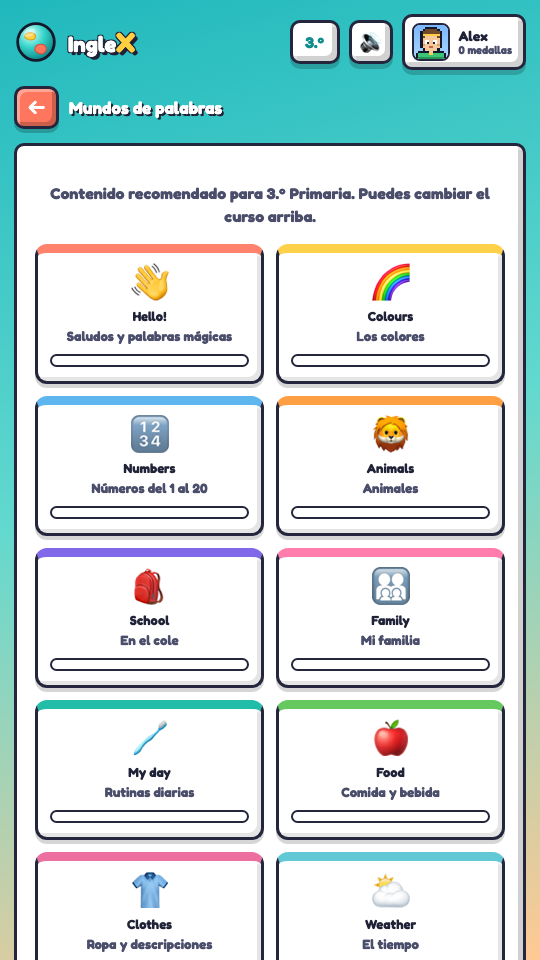
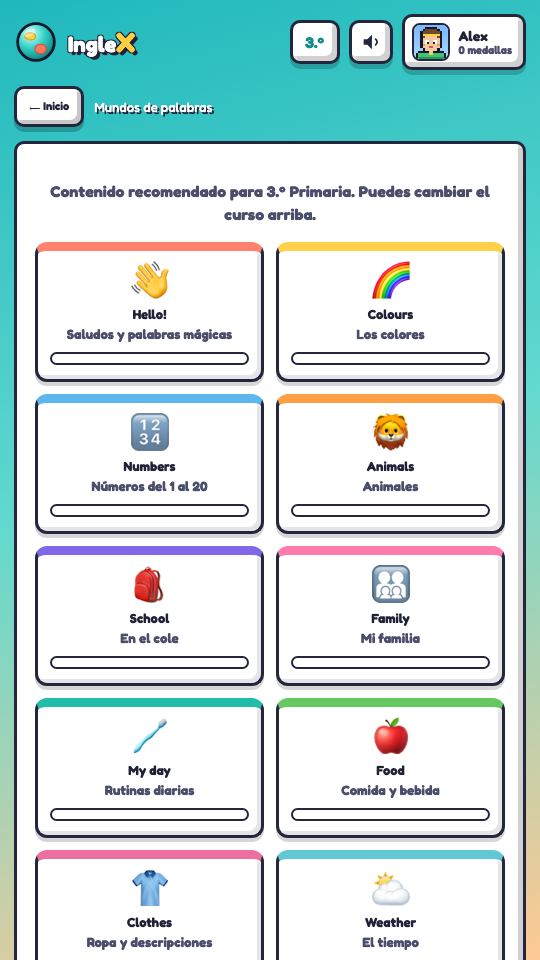
Match Orbitakidx arcade interactions and sound

Changed region(s): [[0.0593, 0.1875, 0.9481, 1.0], [0.0296, 0.0625, 0.9778, 0.1562], [0.6519, 0.0312, 0.7111, 0.0625]]

diff --git a/index.html b/index.html
@@ -48,36 +48,43 @@ function merge(d){var x=defaults();function deep(a,b){Object.keys(a).forEach(fun
 function load(){try{var r=localStorage.getItem(STORE_KEY);if(r)return merge(JSON.parse(r))}catch(e){}return memFallback||defaults()}function save(){try{localStorage.setItem(STORE_KEY,JSON.stringify(DATA))}catch(e){memFallback=DATA}}
 var DATA=load(),QUIZ=null,STUDY=null,SENT=null,READ=null;
 function $(id){return document.getElementById(id)}function shuffle(a){a=a.slice();for(var i=a.length-1;i>0;i--){var j=Math.floor(Math.random()*(i+1)),t=a[i];a[i]=a[j];a[j]=t}return a}function esc(s){return String(s).replace(/[&<>"']/g,function(c){return{"&":"&amp;","<":"&lt;",">":"&gt;",'"':"&quot;","'":"&#39;"}[c]})}
-function course(){return CONTENT.courses[DATA.grade-1]}function courseThemes(){return CONTENT.themes.filter(function(t){return t.grade<=DATA.grade})}function enterApp(){$("splash").style.display="none";if(!DATA.onboarded)editProfile(true)}
-function updateTop(){$("chipAv").innerHTML=avatarSVG(DATA.avatar);$("chipName").textContent=DATA.name||"Explorador";$("chipMedals").textContent=achievementCount();$("courseChip").textContent=course().short;$("soundBtn").textContent=DATA.sound?"🔊":"🔇"}function toggleSound(){DATA.sound=!DATA.sound;save();updateTop()}
-function speak(text){if(!DATA.sound)return;var p=window.Capacitor&&Capacitor.Plugins&&Capacitor.Plugins.OrbitakidxSpeech;if(p&&p.speak){p.speak({text:text,language:"en-US"});return}if(window.speechSynthesis){speechSynthesis.cancel();var u=new SpeechSynthesisUtterance(text);u.lang="en-US";u.rate=.82;speechSynthesis.speak(u)}}
+function course(){return CONTENT.courses[DATA.grade-1]}function courseThemes(){return CONTENT.themes.filter(function(t){return t.grade<=DATA.grade})}function enterApp(){$("splash").style.display="none";sfx("start");if(!DATA.onboarded)editProfile(true)}
+function updateTop(){$("chipAv").innerHTML=avatarSVG(DATA.avatar);$("chipName").textContent=DATA.name||"Explorador";$("chipMedals").textContent=achievementCount();$("courseChip").textContent=course().short;updateSoundBtn()}
+var SND={ctx:null};
+function soundOn(){return DATA.sound!==false}
+function updateSoundBtn(){var b=$("soundBtn"),on=soundOn();if(!b)return;b.innerHTML=on?'<svg width="22" height="22" viewBox="0 0 24 24" fill="#23263d"><path d="M4 9v6h4l5 5V4L8 9H4z"/><path d="M16.5 8.5a4 4 0 010 7" fill="none" stroke="#23263d" stroke-width="2"/></svg>':'<svg width="22" height="22" viewBox="0 0 24 24"><path d="M4 9v6h4l5 5V4L8 9H4z" fill="#aab0c4"/><line x1="16" y1="9.5" x2="22" y2="14.5" stroke="#aab0c4" stroke-width="2"/><line x1="22" y1="9.5" x2="16" y2="14.5" stroke="#aab0c4" stroke-width="2"/></svg>'}
+function toggleSound(){DATA.sound=!soundOn();save();updateSoundBtn();if(soundOn())sfx("tap")}
+function sfx(type){if(!soundOn())return;try{var AC=window.AudioContext||window.webkitAudioContext;if(!AC)return;if(!SND.ctx)SND.ctx=new AC();var ctx=SND.ctx;if(ctx.state==="suspended")ctx.resume();var seq,wave="triangle";if(type==="ok")seq=[[660,0,.09],[990,.07,.12]];else if(type==="bad"){seq=[[180,0,.22]];wave="square"}else if(type==="tap")seq=[[540,0,.05]];else if(type==="medal")seq=[[523,0,.1],[659,.1,.1],[784,.2,.16]];else if(type==="win")seq=[[523,0,.1],[659,.1,.1],[784,.2,.1],[1047,.32,.2]];else if(type==="start")seq=[[392,0,.09],[523,.09,.09],[784,.18,.18]];else seq=[[600,0,.08]];for(var i=0;i<seq.length;i++){var n=seq[i],o=ctx.createOscillator(),g=ctx.createGain();o.type=wave;o.frequency.value=n[0];o.connect(g);g.connect(ctx.destination);var t0=ctx.currentTime+n[1];g.gain.setValueAtTime(.0001,t0);g.gain.exponentialRampToValueAtTime(.22,t0+.012);g.gain.exponentialRampToValueAtTime(.0001,t0+n[2]);o.start(t0);o.stop(t0+n[2]+.03)}}catch(e){}}
+function webSpeak(text){if(!window.speechSynthesis)return;speechSynthesis.cancel();var u=new SpeechSynthesisUtterance(text);u.lang="en-GB";u.rate=.82;speechSynthesis.speak(u)}
+function speak(text){if(!soundOn())return;var p=window.Capacitor&&Capacitor.Plugins&&Capacitor.Plugins.OrbitakidxSpeech;if(p&&p.speak){var call=p.speak({text:text,language:"en-GB"});if(call&&call.catch)call.catch(function(){webSpeak(text)});return}webSpeak(text)}
 function showModal(inner,noClose){$("modalHost").innerHTML='<div class="modal-bg"'+(noClose?'':' onclick="if(event.target===this)closeModal()"')+'><div class="modal block">'+inner+'</div></div>'}function closeModal(){$("modalHost").innerHTML=""}function toast(msg){$("toastHost").innerHTML='<div class="toast">'+msg+'</div>';setTimeout(function(){$("toastHost").innerHTML=""},2200)}
 function editProfile(first){var av="";AVATARS.slice(0,12).forEach(function(a,i){av+='<button class="avatar '+(i===DATA.avatar?'sel':'')+'" onclick="pickAvatar('+i+')" aria-label="'+a.name+'">'+avatarSVG(i)+'</button>'});showModal('<h2>'+(first?'¡Bienvenido a IngleX!':'Tu perfil')+'</h2><p class="sub">Elige tu personaje y escribe tu nombre.</p><input class="name-input" id="nameInput" maxlength="14" placeholder="Tu nombre" value="'+esc(DATA.name)+'"><div class="avatar-row">'+av+'</div><button class="btn coral full" onclick="saveProfile('+(first?'true':'false')+')">Continuar</button>',!!first)}
-function pickAvatar(i){DATA.avatar=i;document.querySelectorAll(".avatar").forEach(function(b,n){b.classList.toggle("sel",n===i)})}function saveProfile(first){var v=$("nameInput").value.trim();if(!v){$("nameInput").focus();return}DATA.name=v;save();closeModal();if(first)chooseCourse(true);else{updateTop();renderHome()}}
+function pickAvatar(i){DATA.avatar=i;sfx("tap");document.querySelectorAll(".avatar").forEach(function(b,n){b.classList.toggle("sel",n===i)})}function saveProfile(first){var v=$("nameInput").value.trim();if(!v){$("nameInput").focus();return}DATA.name=v;save();closeModal();if(first)chooseCourse(true);else{updateTop();renderHome();sfx("win")}}
 function chooseCourse(first){var h='<h2>¿En qué curso estás?</h2><p class="sub">Así adaptamos las palabras, frases y lecturas.</p><div class="course-grid">';CONTENT.courses.forEach(function(c){h+='<div class="theme '+(DATA.grade===c.grade?'selected':'')+'" style="--world:'+["#37c871","#22c6c6","#ff9f43","#7b5cff"][c.grade-1]+'" onclick="setCourse('+c.grade+','+(first?'true':'false')+')"><div class="big">'+["🌱","🌿","🚲","🚀"][c.grade-1]+'</div><b>'+c.label+'</b><small>'+c.description+'</small></div>'});h+='</div>';showModal(h,!!first)}
-function setCourse(g,first){DATA.grade=g;DATA.onboarded=true;save();closeModal();updateTop();renderHome();if(first)toast("¡Curso guardado!")}
-function backBar(title){return'<div class="backbar"><button class="back" onclick="goHome()">←</button><h2>'+title+'</h2></div>'}function lockClass(open){return open?'':' locked'}function themeOpen(i){return OrbitakidxAccess.hasFullAccess()||i<2}function requireTheme(i){if(themeOpen(i))return true;OrbitakidxAccess.showPaywall();return false}
-function card(e,t,d,a,c,locked){return'<button class="card block'+(locked?' locked':'')+'" onclick="'+a+'"><span class="top" style="background:'+c+'"></span><div class="body"><div class="ic">'+e+'</div><h3>'+t+'</h3><p>'+d+'</p></div></button>'}
-function renderHome(){var s=DATA.stats;$("screen").innerHTML='<section class="hero block"><div class="big-av">'+avatarSVG(DATA.avatar)+'</div><div class="htxt"><h2>Hi, '+esc(DATA.name||"explorador")+'! 👋</h2><p>'+course().label+' · '+(DATA.grade>=3?'Frases, escucha y comprensión':'Aprende jugando paso a paso')+'</p><div class="stat-row"><span class="stat">✅ '+s.correct+' aciertos</span><span class="stat">🔥 '+s.best+' racha</span><span class="stat">🏅 '+achievementCount()+'/12</span></div></div></section><div class="section-title">ELIGE TU MISIÓN</div><section class="grid">'+card("🗺","Mundos","Aprende palabras por temas","showThemes('study')","var(--teal)",false)+card("🎧","Escucha","Oye la palabra y elige","showThemes('listen')","#4cb4e8",false)+card("🧩","Frases","Ordena las palabras","startSentences()","var(--coral)",false)+(DATA.grade>=3?card("📖","Reading","Comprende pequeños textos","startReading()","#8c70e8",!OrbitakidxAccess.hasFullAccess()):"")+card("🏆","Examen","Mezcla las misiones","startExam()","var(--gold)",!OrbitakidxAccess.hasFullAccess())+card("🏅","Medallas","Completa la colección","showMedals()","var(--purple)",false)+card("🚀","Progreso","Tu pasaporte de inglés","showProgress()","var(--green)",false)+'</section>'}
+function setCourse(g,first){DATA.grade=g;DATA.onboarded=true;save();closeModal();updateTop();renderHome();sfx("win");if(first)toast("¡Curso guardado!")}
+function backBar(title){return'<div class="back-bar"><div class="btn ghost sm" onclick="goHome()">⟵ Inicio</div><div class="qmeta" style="font-size:13px">'+esc(title)+'</div></div>'}function lockClass(open){return open?'':' locked'}function themeOpen(i){return OrbitakidxAccess.hasFullAccess()||i<2}function requireTheme(i){if(themeOpen(i))return true;OrbitakidxAccess.showPaywall();return false}
+function iconPath(n){switch(n){case"globe":return'<circle cx="12" cy="12" r="9" fill="none" stroke="currentColor" stroke-width="2.4"/><path d="M3 12h18M12 3c3 3 4 6 4 9s-1 6-4 9c-3-3-4-6-4-9s1-6 4-9z" fill="none" stroke="currentColor" stroke-width="2"/>';case"sound":return'<path d="M3 9v6h4l5 5V4L7 9H3z"/><path d="M16 8a5 5 0 010 8" fill="none" stroke="currentColor" stroke-width="2.4"/>';case"abc":return'<path d="M3 18l3-10 3 10M3.8 15h4.4" fill="none" stroke="currentColor" stroke-width="2.4"/><circle cx="16" cy="14" r="4" fill="none" stroke="currentColor" stroke-width="2.4"/>';case"book":return'<path d="M4 4h7v16H4z"/><path d="M13 4h7v16h-7z"/>';case"target":return'<circle cx="12" cy="12" r="9" fill="none" stroke="currentColor" stroke-width="3"/><circle cx="12" cy="12" r="4" fill="none" stroke="currentColor" stroke-width="3"/><circle cx="12" cy="12" r="1.5"/>';case"star":return'<polygon points="12,2 15,9 22,9 16,14 18,21 12,17 6,21 8,14 2,9 9,9"/>';case"trophy":return'<path d="M6 3h12v4a6 6 0 01-12 0V3z"/><rect x="10" y="12" width="4" height="5"/><rect x="7" y="17" width="10" height="3"/>';default:return'<circle cx="12" cy="12" r="9"/>'}}
+function card(icon,t,d,a,c,locked){return'<button class="card block'+(locked?' locked':'')+'" onclick="'+a+'"><span class="top" style="background:'+c+'"></span><div class="body"><div class="ic"><svg viewBox="0 0 24 24" style="width:100%;height:100%" fill="'+c+'" color="'+c+'">'+iconPath(icon)+'</svg></div><h3>'+t+'</h3><p>'+d+'</p></div></button>'}
+function renderHome(){var s=DATA.stats;$("screen").innerHTML='<section class="hero block"><div class="big-av">'+avatarSVG(DATA.avatar)+'</div><div class="htxt"><h2>Hi, '+esc(DATA.name||"explorador")+'! 👋</h2><p>'+course().label+' · '+(DATA.grade>=3?'Frases, escucha y comprensión':'Aprende jugando paso a paso')+'</p><div class="stat-row"><span class="stat">✅ '+s.correct+' aciertos</span><span class="stat">🔥 '+s.best+' racha</span><span class="stat">🏅 '+achievementCount()+'/12</span></div></div></section><div class="section-title">ELIGE TU MISIÓN</div><section class="grid">'+card("globe","Mundos","Aprende palabras por temas","showThemes('study')","var(--teal)",false)+card("sound","Escucha","Oye la palabra y elige","showThemes('listen')","#4cb4e8",false)+card("abc","Frases","Ordena las palabras","startSentences()","var(--coral)",false)+(DATA.grade>=3?card("book","Reading","Comprende pequeños textos","startReading()","#8c70e8",!OrbitakidxAccess.hasFullAccess()):"")+card("target","Examen","Mezcla las misiones","startExam()","var(--gold)",!OrbitakidxAccess.hasFullAccess())+card("star","Medallas","Completa la colección","showMedals()","var(--purple)",false)+card("trophy","Progreso","Tu pasaporte de inglés","showProgress()","var(--green)",false)+'</section>'}
 function goHome(){QUIZ=STUDY=SENT=READ=null;renderHome();window.scrollTo(0,0)}
-function showThemes(mode){var themes=courseThemes(),h=backBar(mode==="listen"?"Escucha y elige":"Mundos de palabras")+'<div class="panel block"><p class="sub">Contenido recomendado para '+course().label+'. Puedes cambiar el curso arriba.</p><div class="theme-grid">';themes.forEach(function(t,i){var c=(DATA.themes[t.id]&&DATA.themes[t.id].correct)||0;h+='<div class="theme'+lockClass(themeOpen(i))+'" style="--world:'+t.color+'" onclick="'+(mode==="listen"?'startWordQuiz('+i+',\'listen\')':'openStudy('+i+')')+'"><div class="big">'+t.emoji+'</div><b>'+t.name+'</b><small>'+t.description+'</small><div class="progress"><i style="width:'+Math.min(100,c*10)+'%;background:'+t.color+'"></i></div></div>'});h+='</div></div>';$("screen").innerHTML=h}
-function openStudy(i){if(!requireTheme(i))return;STUDY={themes:courseThemes(),theme:i,index:0};renderStudy()}function renderStudy(){var t=STUDY.themes[STUDY.theme],w=t.words[STUDY.index];$("screen").innerHTML=backBar(t.name)+'<div class="study block"><div class="eyebrow">PALABRA '+(STUDY.index+1)+' DE '+t.words.length+'</div><div class="word-emoji">'+w.emoji+'</div><div class="english">'+w.en+'</div><div class="spanish">'+w.es+'</div><button class="speaker" onclick="speak(\''+w.en.replace(/'/g,"\\'")+'\')">🔊</button><div class="actions"><button class="btn ghost" onclick="studyMove(-1)">←</button><button class="btn green" onclick="studyMove(1)">Siguiente →</button></div></div><div class="actions"><button class="btn coral" onclick="startWordQuiz('+STUDY.theme+',\'meaning\')">Practicar</button></div>';setTimeout(function(){speak(w.en)},180)}function studyMove(d){var t=STUDY.themes[STUDY.theme];STUDY.index=(STUDY.index+d+t.words.length)%t.words.length;renderStudy()}
+function showThemes(mode){sfx("tap");var themes=courseThemes(),h=backBar(mode==="listen"?"Escucha y elige":"Mundos de palabras")+'<div class="panel block"><p class="sub">Contenido recomendado para '+course().label+'. Puedes cambiar el curso arriba.</p><div class="theme-grid">';themes.forEach(function(t,i){var c=(DATA.themes[t.id]&&DATA.themes[t.id].correct)||0;h+='<div class="theme'+lockClass(themeOpen(i))+'" style="--world:'+t.color+'" onclick="'+(mode==="listen"?'startWordQuiz('+i+',\'listen\')':'openStudy('+i+')')+'"><div class="big">'+t.emoji+'</div><b>'+t.name+'</b><small>'+t.description+'</small><div class="progress"><i style="width:'+Math.min(100,c*10)+'%;background:'+t.color+'"></i></div></div>'});h+='</div></div>';$("screen").innerHTML=h}
+function openStudy(i){if(!requireTheme(i))return;sfx("start");STUDY={themes:courseThemes(),theme:i,index:0};renderStudy()}function renderStudy(){var t=STUDY.themes[STUDY.theme],w=t.words[STUDY.index];$("screen").innerHTML=backBar(t.name)+'<div class="study block"><div class="eyebrow">PALABRA '+(STUDY.index+1)+' DE '+t.words.length+'</div><div class="word-emoji">'+w.emoji+'</div><div class="english">'+w.en+'</div><div class="spanish">'+w.es+'</div><button class="speaker" onclick="speak(\''+w.en.replace(/'/g,"\\'")+'\')">🔊</button><div class="actions"><button class="btn ghost" onclick="studyMove(-1)">←</button><button class="btn green" onclick="studyMove(1)">Siguiente →</button></div></div><div class="actions"><button class="btn coral" onclick="startWordQuiz('+STUDY.theme+',\'meaning\')">Practicar</button></div>';setTimeout(function(){speak(w.en)},180)}function studyMove(d){sfx("tap");var t=STUDY.themes[STUDY.theme];STUDY.index=(STUDY.index+d+t.words.length)%t.words.length;renderStudy()}
 function allWords(){var a=[];courseThemes().forEach(function(t,ti){t.words.forEach(function(w){a.push({en:w.en,es:w.es,emoji:w.emoji,theme:ti,id:t.id})})});return a}function choicesFor(w,key,pool){var a=[w[key]],o=shuffle(pool.filter(function(x){return x[key]!==w[key]}));for(var i=0;i<o.length&&a.length<4;i++)a.push(o[i][key]);return shuffle(a)}
-function startWordQuiz(i,type){if(!requireTheme(i))return;var themes=courseThemes(),t=themes[i],items=shuffle(t.words).slice(0,10).map(function(w){return{kind:type,word:w,choices:choicesFor(w,type==="listen"?"en":"es",t.words),theme:i,id:t.id}});startQuiz(items,t.name+(type==="listen"?" · Escucha":" · Palabras"),false)}function startQuiz(items,label,exam){QUIZ={items:items,index:0,correct:0,streak:0,answered:false,label:label,exam:!!exam};renderQuiz()}
+function startWordQuiz(i,type){if(!requireTheme(i))return;var themes=courseThemes(),t=themes[i],items=shuffle(t.words).slice(0,10).map(function(w){return{kind:type,word:w,choices:choicesFor(w,type==="listen"?"en":"es",t.words),theme:i,id:t.id}});startQuiz(items,t.name+(type==="listen"?" · Escucha":" · Palabras"),false)}function startQuiz(items,label,exam){sfx("start");QUIZ={items:items,index:0,correct:0,streak:0,answered:false,label:label,exam:!!exam};renderQuiz()}
 function startExam(){if(!OrbitakidxAccess.requireLevel("dificil",true))return;var pool=allWords(),items=shuffle(pool).slice(0,12).map(function(w,n){var type=n%2?"listen":"meaning";return{kind:type,word:w,choices:choicesFor(w,type==="listen"?"en":"es",pool),theme:w.theme,id:w.id}});startQuiz(items,"Examen galáctico",true)}
 function renderQuiz(){var q=QUIZ.items[QUIZ.index],listen=q.kind==="listen",prompt=listen?'¿Qué palabra escuchas?':'¿Qué significa <b>'+q.word.en+'</b>?',answers="";q.choices.forEach(function(c,i){answers+='<button class="answer" id="ans'+i+'" onclick="answerQuiz('+i+')">'+c+'</button>'});$("screen").innerHTML=backBar(QUIZ.label)+'<div class="quiz-head"><b>Pregunta '+(QUIZ.index+1)+'/'+QUIZ.items.length+'</b><b>🔥 '+QUIZ.streak+'</b></div><div class="progress"><i style="width:'+(QUIZ.index/QUIZ.items.length*100)+'%"></i></div><div class="question block" style="margin-top:12px"><div class="qemoji">'+(listen?'🎧':q.word.emoji)+'</div><h2>'+prompt+'</h2>'+(listen?'<button class="speaker" onclick="speak(\''+q.word.en.replace(/'/g,"\\'")+'\')">🔊</button>':'<p class="sub">Elige la respuesta correcta</p>')+'<div class="answers">'+answers+'</div><div id="feedback"></div></div>';if(listen)setTimeout(function(){speak(q.word.en)},250)}
-function answerQuiz(i){if(QUIZ.answered)return;QUIZ.answered=true;var q=QUIZ.items[QUIZ.index],right=q.kind==="listen"?q.word.en:q.word.es,ok=q.choices[i]===right;document.querySelectorAll(".answer").forEach(function(b,n){if(q.choices[n]===right)b.classList.add("ok");else if(n===i)b.classList.add("no")});DATA.stats.answered++;if(ok){QUIZ.correct++;QUIZ.streak++;DATA.stats.correct++;DATA.stats.streak++;DATA.stats.best=Math.max(DATA.stats.best,DATA.stats.streak);if(q.kind==="listen")DATA.stats.listen++;var ts=DATA.themes[q.id]||(DATA.themes[q.id]={correct:0});ts.correct++}else{QUIZ.streak=0;DATA.stats.streak=0}save();$("feedback").innerHTML='<div class="feedback">'+(ok?'✅ Great!':'💡 Era <b>'+right+'</b>')+'<div class="actions"><button class="btn green" onclick="nextQuiz()">Continuar →</button></div></div>'}
+function answerQuiz(i){if(QUIZ.answered)return;QUIZ.answered=true;var q=QUIZ.items[QUIZ.index],right=q.kind==="listen"?q.word.en:q.word.es,ok=q.choices[i]===right;document.querySelectorAll(".answer").forEach(function(b,n){if(q.choices[n]===right)b.classList.add("ok");else if(n===i)b.classList.add("no")});DATA.stats.answered++;if(ok){QUIZ.correct++;QUIZ.streak++;DATA.stats.correct++;DATA.stats.streak++;DATA.stats.best=Math.max(DATA.stats.best,DATA.stats.streak);if(q.kind==="listen")DATA.stats.listen++;var ts=DATA.themes[q.id]||(DATA.themes[q.id]={correct:0});ts.correct++}else{QUIZ.streak=0;DATA.stats.streak=0}sfx(ok?"ok":"bad");save();$("feedback").innerHTML='<div class="feedback">'+(ok?'✅ Great!':'💡 Era <b>'+right+'</b>')+'<div class="actions"><button class="btn green" onclick="nextQuiz()">Continuar →</button></div></div>'}
 function nextQuiz(){QUIZ.index++;QUIZ.answered=false;if(QUIZ.index>=QUIZ.items.length)return finishActivity(QUIZ.correct,QUIZ.items.length,"Palabras completadas");renderQuiz()}
-function startSentences(){var free=DATA.grade<=2;if(!free&&!OrbitakidxAccess.requireLevel("medio",false))return;SENT={items:shuffle(CONTENT.sentences[DATA.grade]).slice(0,6),index:0,correct:0,selected:[],answered:false};renderSentence()}
+function startSentences(){var free=DATA.grade<=2;if(!free&&!OrbitakidxAccess.requireLevel("medio",false))return;sfx("start");SENT={items:shuffle(CONTENT.sentences[DATA.grade]).slice(0,6),index:0,correct:0,selected:[],answered:false};renderSentence()}
 function renderSentence(){var q=SENT.items[SENT.index],pool=shuffle(q[0].split(" "));SENT.pool=pool;SENT.selected=[];SENT.answered=false;var tok="";pool.forEach(function(w,i){tok+='<button class="token" id="tok'+i+'" onclick="pickToken('+i+')">'+w+'</button>'});$("screen").innerHTML=backBar("Construye la frase")+'<div class="quiz-head"><b>Frase '+(SENT.index+1)+'/'+SENT.items.length+'</b><b>⭐ '+SENT.correct+'</b></div><div class="question block"><div class="qemoji">🧩</div><h2>'+q[1]+'</h2><div class="sentence-box" id="built"><span class="sub">Toca las palabras…</span></div><div class="tokens">'+tok+'</div><div class="actions"><button class="btn ghost" onclick="undoToken()">↩ Deshacer</button><button class="btn green" onclick="checkSentence()">Comprobar</button></div><div id="feedback"></div></div>'}
-function pickToken(i){if(SENT.answered||SENT.selected.indexOf(i)>=0)return;SENT.selected.push(i);$("tok"+i).classList.add("used");renderBuilt()}function undoToken(){if(!SENT.selected.length||SENT.answered)return;var i=SENT.selected.pop();$("tok"+i).classList.remove("used");renderBuilt()}function renderBuilt(){$("built").innerHTML=SENT.selected.length?SENT.selected.map(function(i){return'<span class="token">'+SENT.pool[i]+'</span>'}).join(""):'<span class="sub">Toca las palabras…</span>'}
-function checkSentence(){if(SENT.answered)return;var q=SENT.items[SENT.index],built=SENT.selected.map(function(i){return SENT.pool[i]}).join(" ");if(SENT.selected.length!==SENT.pool.length)return toast("Todavía faltan palabras");SENT.answered=true;var ok=built===q[0];DATA.stats.answered++;if(ok){SENT.correct++;DATA.stats.correct++;DATA.stats.sentences++;speak(q[0])}save();$("feedback").innerHTML='<div class="feedback">'+(ok?'✅ Perfect!':'💡 Orden correcto: <b>'+q[0]+'</b>')+'<div class="actions"><button class="btn green" onclick="nextSentence()">Continuar →</button></div></div>'}
+function pickToken(i){if(SENT.answered||SENT.selected.indexOf(i)>=0)return;sfx("tap");SENT.selected.push(i);$("tok"+i).classList.add("used");renderBuilt()}function undoToken(){if(!SENT.selected.length||SENT.answered)return;sfx("tap");var i=SENT.selected.pop();$("tok"+i).classList.remove("used");renderBuilt()}function renderBuilt(){$("built").innerHTML=SENT.selected.length?SENT.selected.map(function(i){return'<span class="token">'+SENT.pool[i]+'</span>'}).join(""):'<span class="sub">Toca las palabras…</span>'}
+function checkSentence(){if(SENT.answered)return;var q=SENT.items[SENT.index],built=SENT.selected.map(function(i){return SENT.pool[i]}).join(" ");if(SENT.selected.length!==SENT.pool.length)return toast("Todavía faltan palabras");SENT.answered=true;var ok=built===q[0];DATA.stats.answered++;if(ok){SENT.correct++;DATA.stats.correct++;DATA.stats.sentences++;speak(q[0])}sfx(ok?"ok":"bad");save();$("feedback").innerHTML='<div class="feedback">'+(ok?'✅ Perfect!':'💡 Orden correcto: <b>'+q[0]+'</b>')+'<div class="actions"><button class="btn green" onclick="nextSentence()">Continuar →</button></div></div>'}
 function nextSentence(){SENT.index++;if(SENT.index>=SENT.items.length)return finishActivity(SENT.correct,SENT.items.length,"Frases construidas");renderSentence()}
-function startReading(){if(!OrbitakidxAccess.requireLevel("dificil",false))return;var bank=CONTENT.readings[DATA.grade]||CONTENT.readings[3];READ={story:shuffle(bank)[0],index:0,correct:0,answered:false};renderReading()}
+function startReading(){if(!OrbitakidxAccess.requireLevel("dificil",false))return;sfx("start");var bank=CONTENT.readings[DATA.grade]||CONTENT.readings[3];READ={story:shuffle(bank)[0],index:0,correct:0,answered:false};renderReading()}
 function renderReading(){var q=READ.story.questions[READ.index],answers="";shuffle(q[2]).forEach(function(a){answers+='<button class="answer" onclick="answerReading(this,\''+a.replace(/'/g,"\\'")+'\')">'+a+'</button>'});$("screen").innerHTML=backBar("Reading")+'<div class="panel block"><h2>'+READ.story.title+'</h2><div class="reading">'+READ.story.text+'</div><div class="eyebrow">QUESTION '+(READ.index+1)+'/'+READ.story.questions.length+'</div><h3>'+q[0]+'</h3><div class="answers">'+answers+'</div><div id="feedback"></div></div>'}
-function answerReading(btn,a){if(READ.answered)return;READ.answered=true;var q=READ.story.questions[READ.index],ok=a===q[1];document.querySelectorAll(".answer").forEach(function(b){if(b.textContent===q[1])b.classList.add("ok")});if(!ok)btn.classList.add("no");DATA.stats.answered++;if(ok){READ.correct++;DATA.stats.correct++;DATA.stats.reading++}save();$("feedback").innerHTML='<div class="feedback">'+(ok?'✅ Great reading!':'💡 Respuesta: <b>'+q[1]+'</b>')+'<div class="actions"><button class="btn green" onclick="nextReading()">Continuar →</button></div></div>'}
+function answerReading(btn,a){if(READ.answered)return;READ.answered=true;var q=READ.story.questions[READ.index],ok=a===q[1];document.querySelectorAll(".answer").forEach(function(b){if(b.textContent===q[1])b.classList.add("ok")});if(!ok)btn.classList.add("no");DATA.stats.answered++;if(ok){READ.correct++;DATA.stats.correct++;DATA.stats.reading++}sfx(ok?"ok":"bad");save();$("feedback").innerHTML='<div class="feedback">'+(ok?'✅ Great reading!':'💡 Respuesta: <b>'+q[1]+'</b>')+'<div class="actions"><button class="btn green" onclick="nextReading()">Continuar →</button></div></div>'}
 function nextReading(){READ.index++;READ.answered=false;if(READ.index>=READ.story.questions.length)return finishActivity(READ.correct,READ.story.questions.length,"Preguntas comprendidas");renderReading()}
-function finishActivity(correct,total,label){DATA.stats.sessions++;if(correct===total)DATA.stats.perfect++;var nw=checkAchievements();save();$("screen").innerHTML=backBar("Resultado")+'<div class="study block"><div class="word-emoji">'+(correct/total>=.8?'🏆':'🌟')+'</div><div class="english">'+correct+'/'+total+'</div><div class="spanish">'+label+'</div>'+(nw.length?'<p><b>¡Nueva medalla!</b> '+nw.join(' ')+'</p>':'')+'<button class="btn coral" onclick="goHome()">Volver al inicio</button></div>'}
+function finishActivity(correct,total,label){DATA.stats.sessions++;if(correct===total)DATA.stats.perfect++;var nw=checkAchievements();sfx(nw.length?"medal":"win");save();$("screen").innerHTML=backBar("Resultado")+'<div class="study block"><div class="word-emoji">'+(correct/total>=.8?'🏆':'🌟')+'</div><div class="english">'+correct+'/'+total+'</div><div class="spanish">'+label+'</div>'+(nw.length?'<p><b>¡Nueva medalla!</b> '+nw.join(' ')+'</p>':'')+'<button class="btn coral" onclick="goHome()">Volver al inicio</button></div>'}
 var ACH=[
  {id:"first",icon:"🌟",name:"First word",desc:"Primer acierto",ok:function(){return DATA.stats.correct>=1}},{id:"ten",icon:"🔟",name:"Ten words",desc:"10 aciertos",ok:function(){return DATA.stats.correct>=10}},
  {id:"listener",icon:"🎧",name:"Good listener",desc:"10 escuchas",ok:function(){return DATA.stats.listen>=10}},{id:"builder",icon:"🧩",name:"Sentence builder",desc:"5 frases",ok:function(){return DATA.stats.sentences>=5}},
@@ -87,8 +94,8 @@ var ACH=[
  {id:"hundred",icon:"💯",name:"100 club",desc:"100 aciertos",ok:function(){return DATA.stats.correct>=100}},{id:"master",icon:"👑",name:"English master",desc:"Todos tus mundos",ok:function(){return mastered(5)>=courseThemes().length}}
 ];
 function mastered(min){return courseThemes().filter(function(t){return DATA.themes[t.id]&&DATA.themes[t.id].correct>=min}).length}function checkAchievements(){var n=[];ACH.forEach(function(a){if(!DATA.achievements[a.id]&&a.ok()){DATA.achievements[a.id]=true;n.push(a.icon)}});return n}function achievementCount(){checkAchievements();return Object.keys(DATA.achievements).filter(function(k){return DATA.achievements[k]}).length}
-function showMedals(){checkAchievements();save();var h=backBar("Tus medallas")+'<div class="panel block"><p class="sub">Gana las primeras con la demo. Para completar la colección tendrás que conquistar todos los mundos.</p><div class="medal-grid">';ACH.forEach(function(a){var on=!!DATA.achievements[a.id];h+='<div class="medal '+(on?'on':'')+'"><div class="micon">'+(on?a.icon:'🔒')+'</div><b>'+a.name+'</b><small>'+a.desc+'</small></div>'});h+='</div></div>';$("screen").innerHTML=h}
-function showProgress(){var h=backBar("Pasaporte de inglés")+'<div class="panel block"><p class="sub">Progreso de '+course().label+'.</p><div class="theme-grid">';courseThemes().forEach(function(t,i){var c=(DATA.themes[t.id]&&DATA.themes[t.id].correct)||0;h+='<div class="theme'+lockClass(themeOpen(i))+'" style="--world:'+t.color+'" onclick="openStudy('+i+')"><div class="big">'+t.emoji+'</div><b>'+t.name+'</b><small>'+c+' aciertos</small><div class="progress"><i style="width:'+Math.min(100,c*10)+'%;background:'+t.color+'"></i></div></div>'});h+='</div></div>';$("screen").innerHTML=h}
+function showMedals(){sfx("tap");checkAchievements();save();var h=backBar("Tus medallas")+'<div class="panel block"><p class="sub">Gana las primeras con la demo. Para completar la colección tendrás que conquistar todos los mundos.</p><div class="medal-grid">';ACH.forEach(function(a){var on=!!DATA.achievements[a.id];h+='<div class="medal '+(on?'on':'')+'"><div class="micon">'+(on?a.icon:'🔒')+'</div><b>'+a.name+'</b><small>'+a.desc+'</small></div>'});h+='</div></div>';$("screen").innerHTML=h}
+function showProgress(){sfx("tap");var h=backBar("Pasaporte de inglés")+'<div class="panel block"><p class="sub">Progreso de '+course().label+'.</p><div class="theme-grid">';courseThemes().forEach(function(t,i){var c=(DATA.themes[t.id]&&DATA.themes[t.id].correct)||0;h+='<div class="theme'+lockClass(themeOpen(i))+'" style="--world:'+t.color+'" onclick="openStudy('+i+')"><div class="big">'+t.emoji+'</div><b>'+t.name+'</b><small>'+c+' aciertos</small><div class="progress"><i style="width:'+Math.min(100,c*10)+'%;background:'+t.color+'"></i></div></div>'});h+='</div></div>';$("screen").innerHTML=h}
 updateTop();renderHome();if(DATA.onboarded)$("splash").style.display="none";OrbitakidxAccess.init().then(renderHome);window.scrollTo(0,0);
 </script>
 </body>

diff --git a/arcade.css b/arcade.css
@@ -20,9 +20,9 @@ button,input{font:inherit}.app{position:relative;z-index:1;max-width:920px;width
 
 .hero{background:#fff;padding:16px 18px 22px;margin-bottom:16px;position:relative;display:flex;align-items:center;justify-content:center;text-align:center;gap:14px;flex-wrap:wrap;overflow:hidden}.hero:after{content:'';position:absolute;left:0;right:0;bottom:0;height:9px;background:linear-gradient(90deg,var(--teal),var(--gold),var(--coral),var(--purple))}.hero .big-av{width:74px;height:74px;border:3px solid var(--line);border-radius:12px;overflow:hidden;flex:none}.hero .htxt{flex:1;min-width:200px}.hero h1,.hero .htxt h2{margin:0 0 4px;font-size:22px;font-weight:900}.hero p{margin:0;color:var(--ink-soft);font-weight:700}.stats,.stat-row{display:flex;gap:8px;flex-wrap:wrap;justify-content:center;margin-top:10px}.stat{background:var(--panel-2);border:2px solid var(--line);border-radius:9px;padding:6px 10px;font-weight:800;font-size:12px}
 .eyebrow,.section-title{font-family:var(--pixel);font-weight:700;color:#fff;font-size:14px;letter-spacing:.2px;margin:18px 4px 12px;text-align:center;text-shadow:2px 2px 0 var(--ink)}
-.grid{display:grid;grid-template-columns:repeat(2,1fr);gap:14px}.card{background:#fff;cursor:pointer;padding:0;overflow:hidden;transition:transform .08s;color:var(--ink);min-height:142px;text-align:center}.card:hover{transform:translateY(-3px)}.card .stripe,.card .top{display:block;height:9px;position:static}.card .body{padding:15px 13px 18px}.card .emoji,.card .ic{width:58px;height:58px;display:flex;align-items:center;justify-content:center;margin:0 auto 9px;font-size:38px;background:var(--panel-2);border:3px solid var(--line);border-radius:12px;box-shadow:inset 3px 3px 0 rgba(255,255,255,.55),inset -3px -3px 0 rgba(0,0,0,.12)}.card h3{margin:0 0 4px;font-family:var(--pixel);font-size:13px;font-weight:700}.card p{margin:0;font-size:13px;color:var(--ink-soft);font-weight:700}.card.locked{position:relative;filter:saturate(.7)}.card.locked:after,.theme.locked:after{content:'🔒';position:absolute;right:8px;top:13px;background:#fff;border:2px solid var(--line);border-radius:8px;padding:3px;font-size:14px}
+.grid{display:grid;grid-template-columns:repeat(2,1fr);gap:14px}.card{background:#fff;cursor:pointer;padding:0;overflow:hidden;transition:transform .08s;color:var(--ink);min-height:142px;text-align:center}.card:hover{transform:translateY(-3px)}.card .stripe,.card .top{display:block;height:9px;position:static}.card .body{padding:15px 13px 18px}.card .emoji,.card .ic{width:58px;height:58px;display:flex;align-items:center;justify-content:center;margin:0 auto 9px;font-size:38px}.card .ic svg{width:100%;height:100%;display:block}.card h3{margin:0 0 4px;font-family:var(--pixel);font-size:13px;font-weight:700}.card p{margin:0;font-size:13px;color:var(--ink-soft);font-weight:700}.card.locked{position:relative;filter:saturate(.7)}.card.locked:after,.theme.locked:after{content:'🔒';position:absolute;right:8px;top:13px;background:#fff;border:2px solid var(--line);border-radius:8px;padding:3px;font-size:14px}
 
-.backbar{display:flex;align-items:center;gap:10px;margin-bottom:14px}.back{font-family:var(--pixel);font-weight:700;color:#fff;width:45px;height:43px;cursor:pointer;border:3px solid var(--line);border-radius:10px;background:var(--coral);box-shadow:inset 3px 3px 0 rgba(255,255,255,.35),inset -4px -4px 0 rgba(0,0,0,.2),0 4px 0 rgba(0,0,0,.2)}.backbar h2{margin:0;color:#fff;font-family:var(--pixel);font-size:17px;text-shadow:2px 2px 0 var(--ink)}
+.backbar,.back-bar{display:flex;align-items:center;gap:10px;margin-bottom:14px}.back{font-family:var(--pixel);font-weight:700;color:#fff;width:45px;height:43px;cursor:pointer;border:3px solid var(--line);border-radius:10px;background:var(--coral);box-shadow:inset 3px 3px 0 rgba(255,255,255,.35),inset -4px -4px 0 rgba(0,0,0,.2),0 4px 0 rgba(0,0,0,.2)}.backbar h2{margin:0;color:#fff;font-family:var(--pixel);font-size:17px;text-shadow:2px 2px 0 var(--ink)}.qmeta{font-family:var(--pixel);font-size:11px;color:#fff;text-shadow:2px 2px 0 var(--ink)}
 .panel,.study,.question{background:#fff;padding:20px 18px;margin-bottom:14px;text-align:center}.panel h2{font-family:var(--pixel);font-size:17px;margin:0 0 8px}.sub{color:var(--ink-soft);font-weight:700;line-height:1.45}.course-grid,.theme-grid{display:grid;grid-template-columns:repeat(2,minmax(0,1fr));gap:12px}.theme{--world:var(--teal);padding:0 12px 14px;background:#fff;border:3px solid var(--line);border-top:9px solid var(--world);border-radius:12px;box-shadow:inset 3px 3px 0 rgba(255,255,255,.5),inset -4px -4px 0 rgba(0,0,0,.1),0 4px 0 rgba(0,0,0,.16);cursor:pointer;position:relative;text-align:center}.theme .big{font-size:38px;line-height:1;margin-top:10px}.theme b{display:block;margin-top:7px;font-family:var(--pixel);font-size:13px}.theme small{display:block;color:var(--ink-soft);font-weight:700;margin-top:4px}.theme.selected{background:#dcfaf5;outline:4px solid rgba(34,198,198,.55)}
 .progress{height:18px;background:#fff;border:3px solid var(--line);border-radius:10px;overflow:hidden;margin:10px 0 16px}.theme .progress{height:13px;border-width:2px;margin:10px 0 0}.progress i{display:block;height:100%;background:linear-gradient(90deg,var(--green),var(--teal));width:0;transition:width .35s}
 

diff --git a/android/app/src/main/java/com/orbitakidx/inglex/OrbitakidxSpeechPlugin.java b/android/app/src/main/java/com/orbitakidx/inglex/OrbitakidxSpeechPlugin.java
@@ -22,7 +22,7 @@ public class OrbitakidxSpeechPlugin extends Plugin implements TextToSpeech.OnIni
     @Override
     public void onInit(int status) {
         if (status != TextToSpeech.SUCCESS || textToSpeech == null) return;
-        int language = textToSpeech.setLanguage(Locale.US);
+        int language = textToSpeech.setLanguage(Locale.UK);
         ready = language != TextToSpeech.LANG_MISSING_DATA
             && language != TextToSpeech.LANG_NOT_SUPPORTED;
         textToSpeech.setSpeechRate(0.82f);
@@ -39,7 +39,7 @@ public class OrbitakidxSpeechPlugin extends Plugin implements TextToSpeech.OnIni
             call.reject("La voz inglesa no está disponible en el dispositivo.");
             return;
         }
-        String language = call.getString("language", "en-US");
+        String language = call.getString("language", "en-GB");
         Locale locale = Locale.forLanguageTag(language);
         int result = textToSpeech.setLanguage(locale);
         if (result == TextToSpeech.LANG_MISSING_DATA
